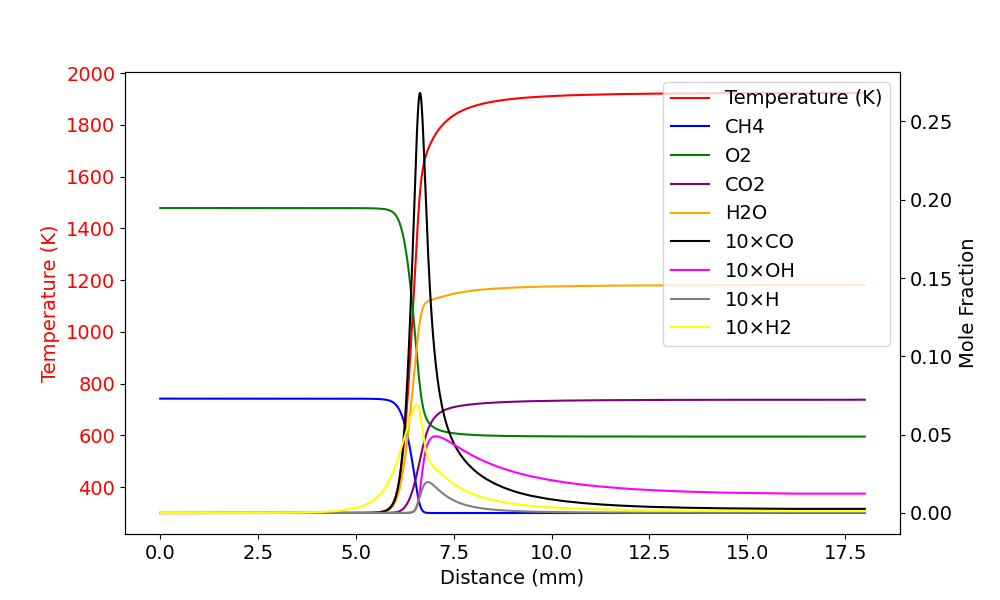
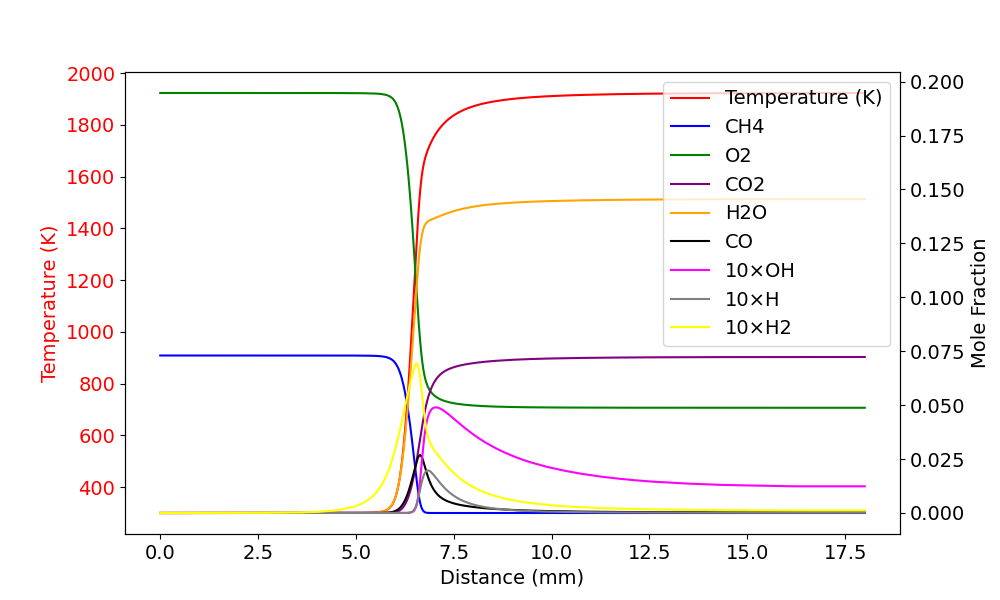
Úprava podmínky: odstranění 'CO' z kontrolovaného seznamu v if

diff --git a/task3a1.py b/task3a1.py
@@ -46,7 +46,7 @@ colors = ['blue', 'green', 'purple', 'orange', 'black', 'magenta', 'gray', 'yell
 for sp, color in zip(species, colors):
     y_data = f.X[gas.species_index(sp)]
 
-    if sp in ['OH', 'H', 'H2', 'CO']:
+    if sp in ['OH', 'H', 'H2']:
         y_data = 10 * y_data
         label = f"10×{sp}"
     else:
